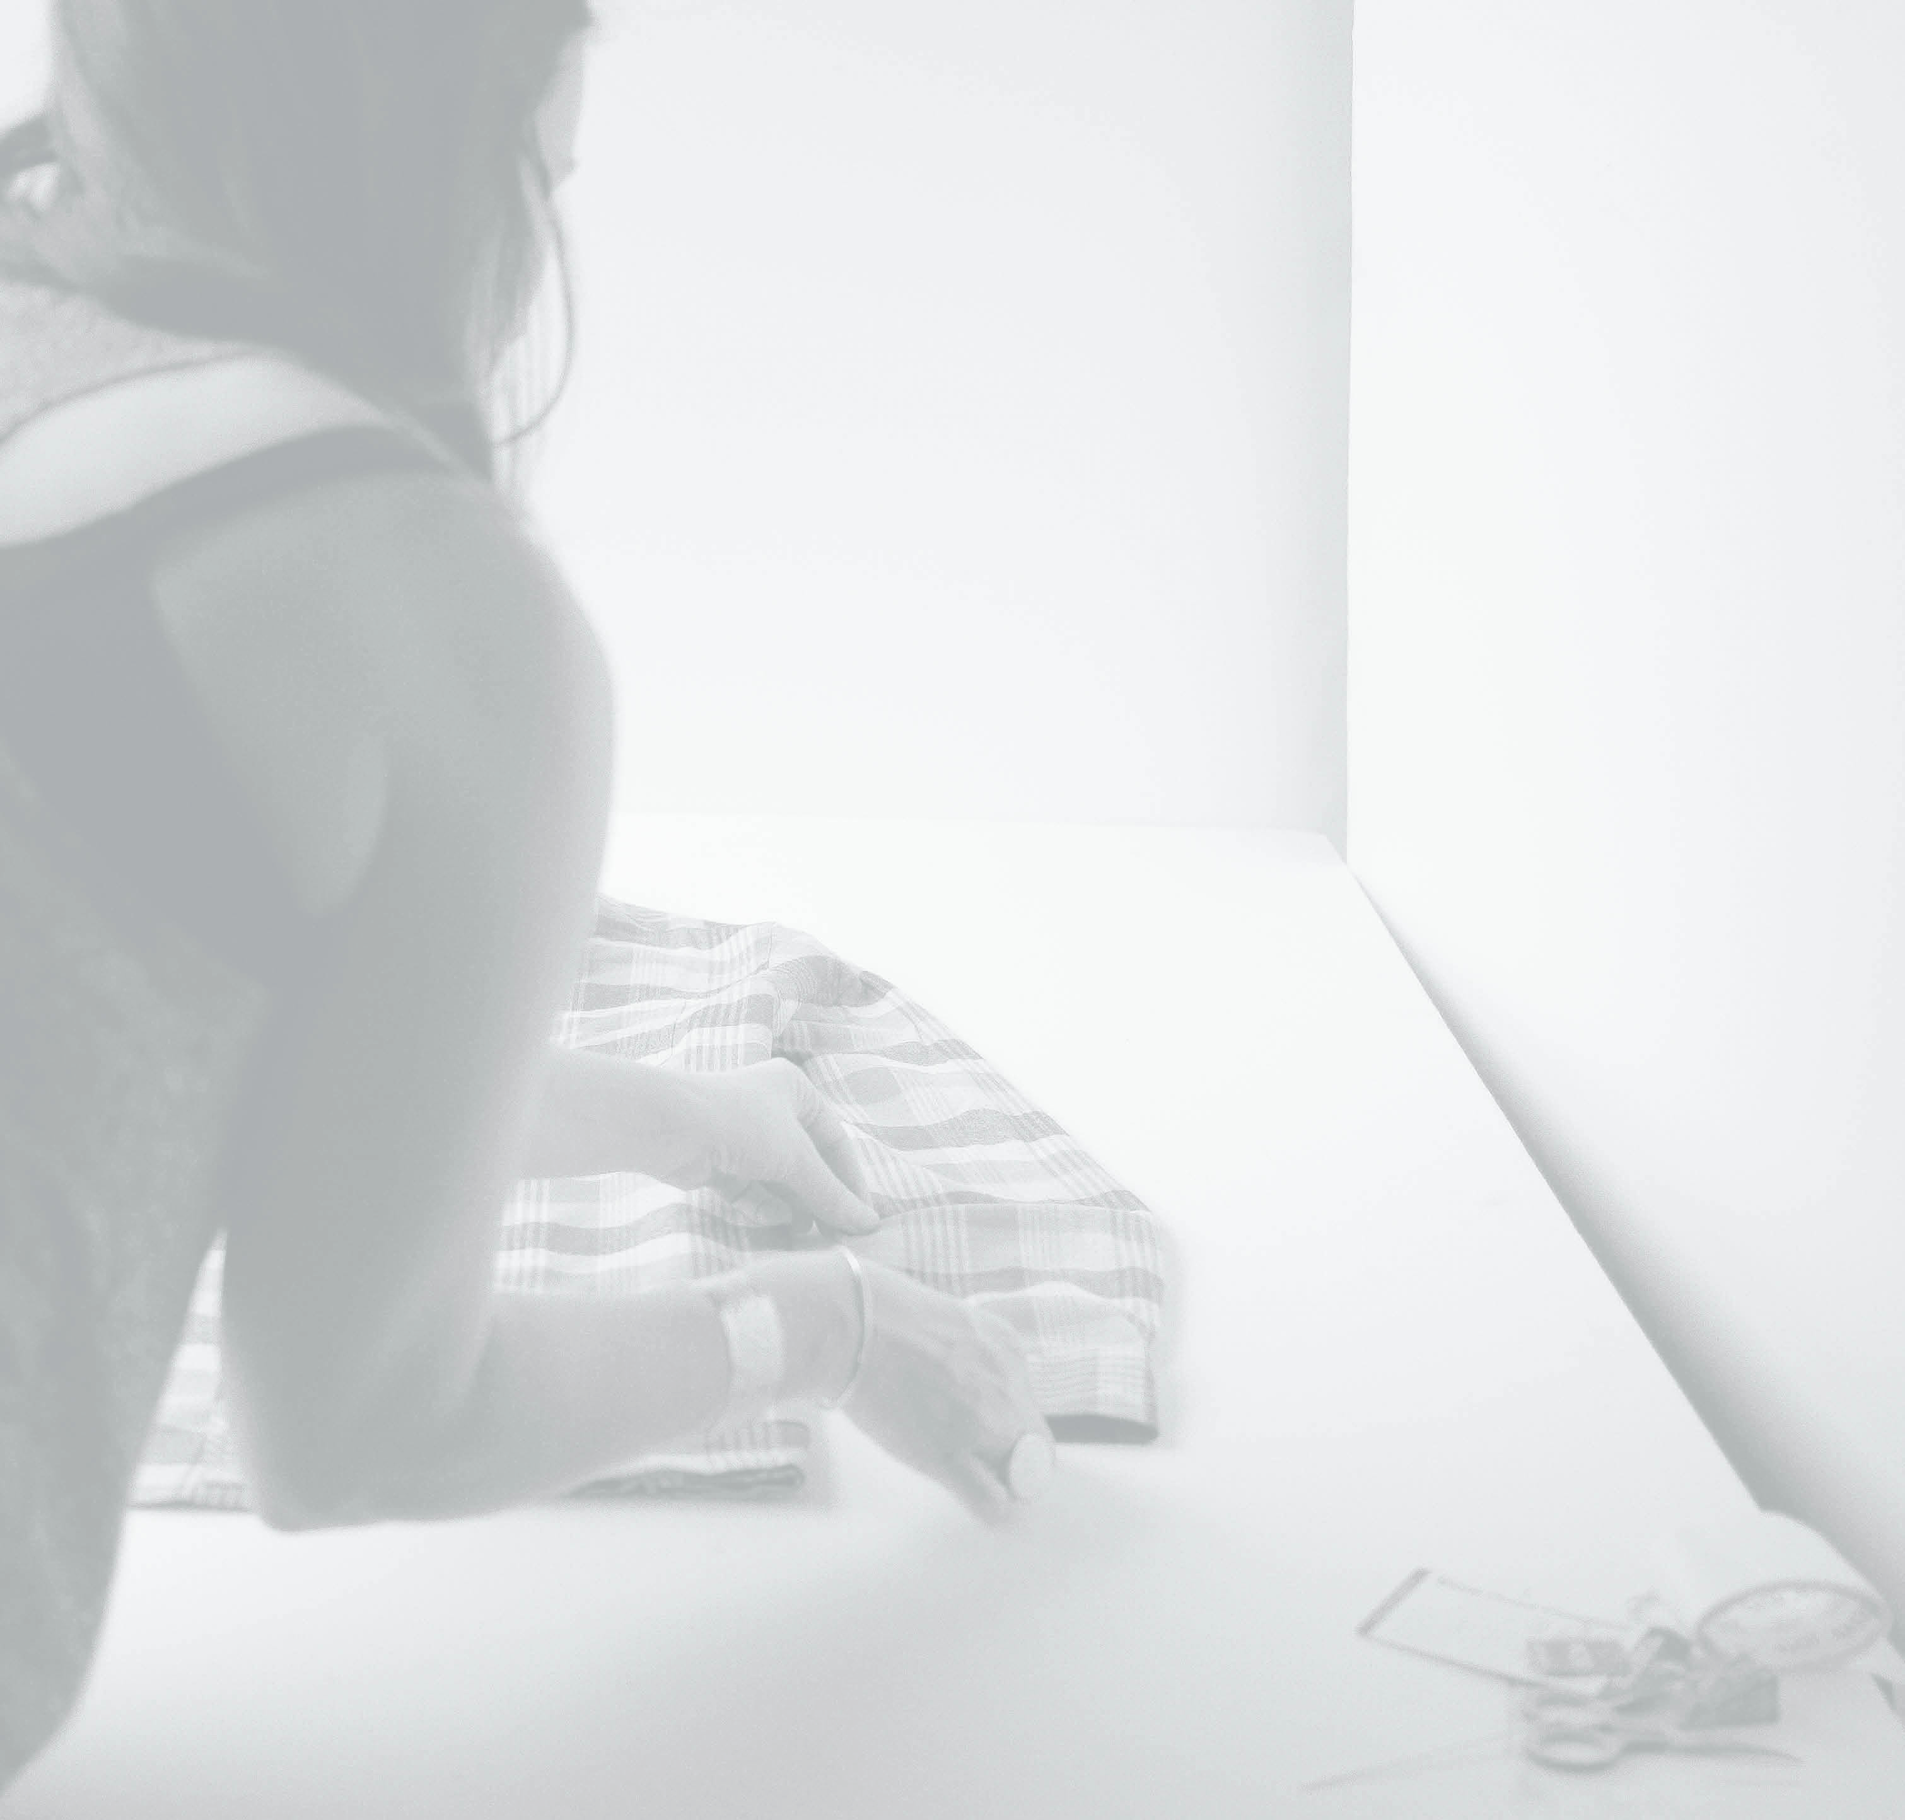
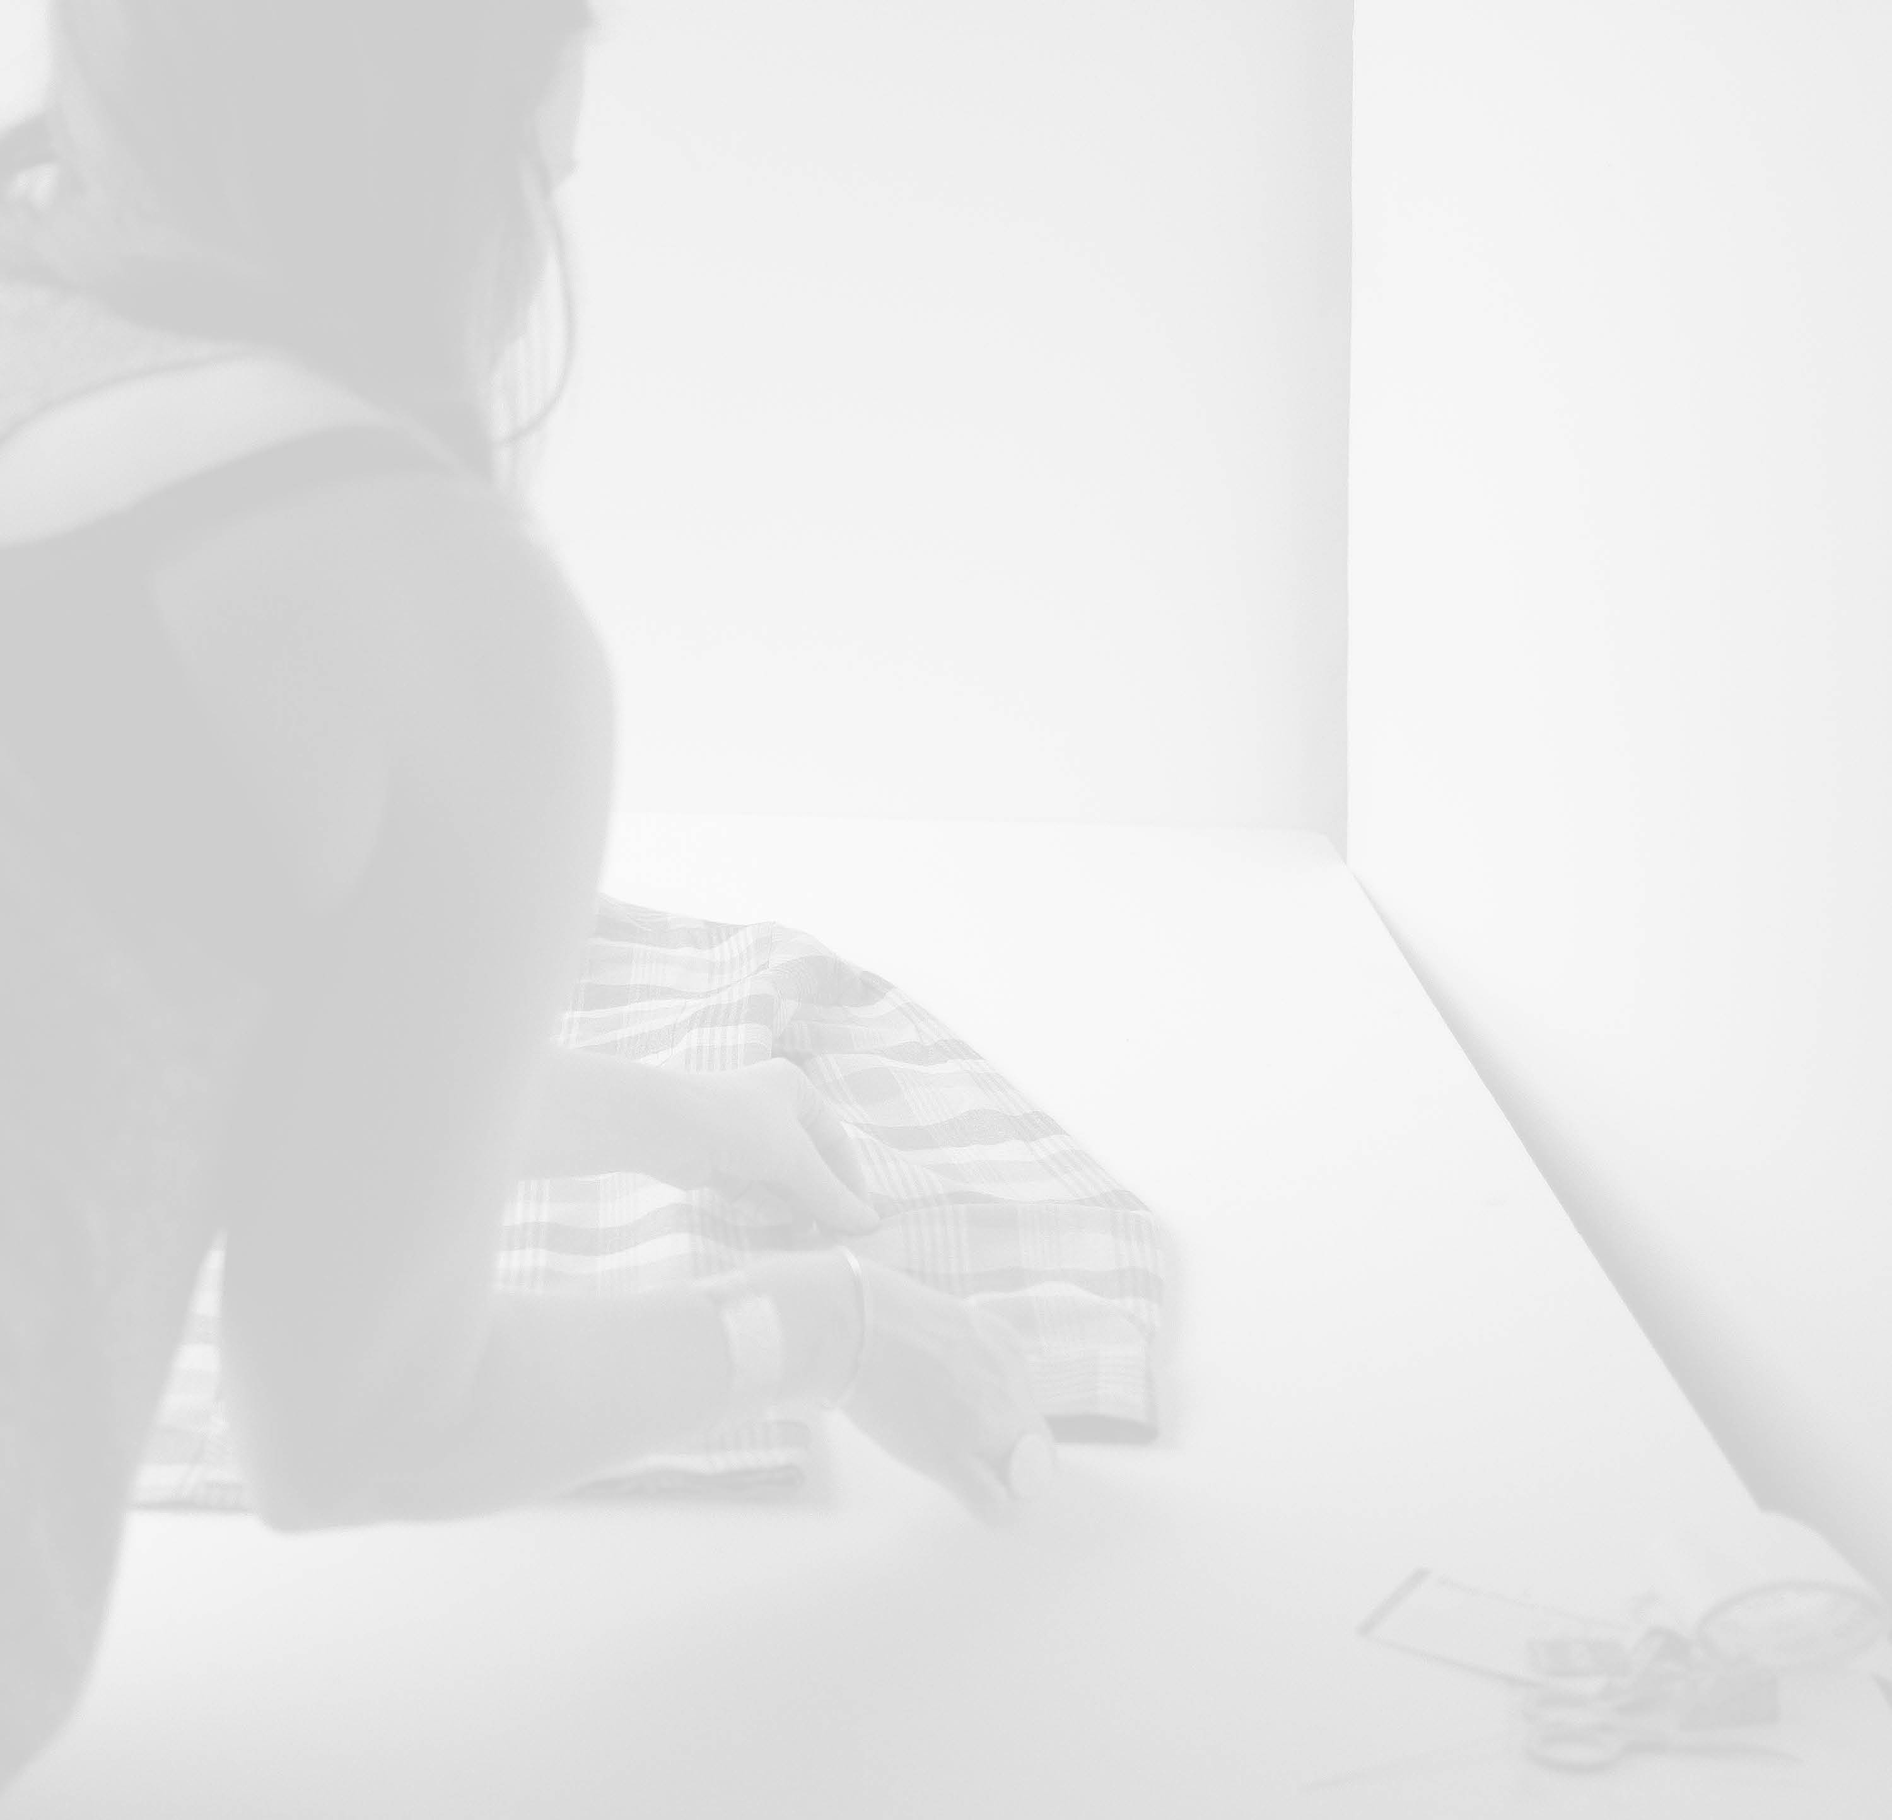
Bug fixed & improvements as per client notes

diff --git a/views/about/about.html b/views/about/about.html
@@ -1,6 +1,6 @@
 <section id="about-landing">
 	<div id="about-landing-text" class="p-box">
-		<p>We’re a small creative agency that works in the outdoor and adjacent markets. We’re all outdoor industry veterans who have come together for the community and collaboration that being part of a team brings.</p>
+		<p>We’re a small creative studio that works in the outdoor and adjacent markets. We’re all outdoor industry veterans who have come together for the community and collaboration that being part of a team brings.</p>
 		<p>Together, we specialize in providing content along with creative strategy and execution. Also, big fans of being outside and coffee. Even drip, when absolutely necessary.</p>
 	</div>
 </section>
@@ -8,7 +8,7 @@
 	<h2 class="orange">Just the right size.</h2>
 	<p>Without all the overhead of a typical agency, no project is too small or too big.</p>
 </section>
-<section class="flip-the-script max-w-container">
+<section class="flip-the-script max-w-container background-parallax">
 	<div class="max-w flex column p-box">
 		<h2 class="mb-1 relative">
 			<div class="growing-slash top-left"></div>
@@ -16,12 +16,11 @@
 		</h2>
 		<h6 class="grey">Top-notch creative should not be astronomically-expensive</h6>
 		<p>We know how much it costs to work with an agency. So we put together a different kind of model for doing the work we love with clients who appreciate another option.</p>
-		<p>We’re not a big agency with a hefty payroll. We’re also not an independent freelancer. Not that there’s anything wrong with either. Honestly, there’s advantages to both. For starters, they’re both well-known. Frankly, we kind of envy them.</p>
-		<p>The issue? We’re stuck in the middle of the two. Like being a middle child, we’re not very well understood.</p>
+		<p>We’re not a big agency with a ton of overhead. We’re also not an independent freelancer. Not that there’s anything wrong with either. Honestly, there’s advantages to both. For starters, they’re both well-known. Frankly, we kind of envy them.</p>
+		<p>We’re stuck in the middle of the two. Like being a middle child, we’re not very well understood.</p>
 		<p>What about us then? We all have decades of experience. We come from working on the brand side of the outdoor industry, from being with creative agencies, and from running our own freelance careers. We’re with Woolley because it’s different.</p>
 		<a href="/work" class="cta light slideout">Check out our work.</a>
 	</div>
-	<img id="about-bw-1" src="/assets/about/about-bw-1.jpg"/>
 </section>
 <section class="trapezoid blue left">
 	<div class="services">
@@ -46,7 +45,7 @@
 		</div>
 	</div>
 </section>
-<section class="thom max-w-container align-end">
+<section class="thom max-w-container align-end background-parallax">
 	<div class="max-w justify-between">
 		<div class="picture">
 			<div class="img-container">

diff --git a/views/contact/contact.html b/views/contact/contact.html
@@ -1,10 +1,10 @@
-<section class="max-w-container">
+<section class="max-w-container background-parallax">
 	<div class="max-w responsive">
 		<div class="half">
-			<h1 class="mb-4 relative">
+			<h2 class="mb-4 relative">
 				<div class="growing-slash top-left"></div>
 				<span class="relative">Let's chat creative.</span>
-			</h1>
+			</h2>
 			<div class="p-box">
 				<p>It’s what we love to do. Also, to jump into very cold alpine lakes.</p>
 				<p>If you need creative content, strategy, or are looking to grow your bench of creative partnerships, we’d love to hear from you.</p>
@@ -13,18 +13,21 @@
 		<div class="half">
 			<form id="contact-form">
 				<label class="required" for="email">Email</label>
-				<input id="email" name="email" type="email" required>
+				<input id="email" name="email" type="email">
 				<label class="required" for="firstname">First Name</label>
-				<input id="firstname" name="firstname" type="text" required>
+				<input id="firstname" name="firstname" type="text">
 				<label class="required" for="lastname">Last Name</label>
-				<input id="lastname" name="lastname" type="text" required>
+				<input id="lastname" name="lastname" type="text">
 				<label for="company">Company</label>
 				<input id="company" name="company" type="text">
 				<label for="phone">Phone</label>
 				<input id="phone" name="phone" type="tel">
 				<label for="message">Message</label>
 				<textarea id="message" name="message" rows="4"></textarea>
-				<button class="cta light" type="submit">Let's go.</button>
+				<div class="relative flex column align-center">
+					<button id="submit-button" class="cta light" type="submit">Let's go.</button>
+					<p id="success-message" class="absolute">Thanks for reaching out to us! We’ll be in touch shortly.</p>
+				</div>
 			</form>
 			<p class="mailto">Don’t like forms? No worries. Send us an email and we’ll get back to you.</p>
 			<a class="mailto" href="mailto:hello@woolleycreative.com" target="_blank">

diff --git a/views/careers/careers.html b/views/careers/careers.html
@@ -7,7 +7,7 @@
 </section>
 <section class="trapezoid right blue">
 	<h2 class="orange">We're a team.</h2>
-	<p>Working as a team brings us opportunity in both scale and scope of projects.</p>
+	<p>Working together brings us opportunity in both scale and scope of projects.</p>
 </section>
 <section class="magazine max-w-container">
 	<div class="max-w column align-center">
@@ -42,15 +42,15 @@
 <section class="cool max-w-container">
 	<div class="max-w column justify-center">
 		<div class="relative">
-			<div class="slash slideout"></div>
-			<p class="relative">Speaking of collaboration, everyone is involved in decisions that affect Woolley including the ways we operate, the work we take on, and how we show up as a team.</p>
+			<div class="growing-slash top-left slideout"></div>
+			<p class="relative">Everyone is involved in decisions that affect Woolley including the ways we operate, the work we take on, and how we show up as a team.</p>
 		</div>
 		<div class="relative">
-			<div class="slash slideout"></div>
+			<div class="growing-slash top-left slideout"></div>
 			<p class="relative">We’re each responsible for bringing work to Woolley. This gives all of us opportunities to meet with our clients and to carry projects through the full lifecycle, from concept to execution to delivery.</p>
 		</div>
 		<div class="relative">
-			<div class="slash slideout"></div>
+			<div class="growing-slash top-left slideout"></div>
 			<p class="relative">We only work when there’s work. Like being freelance, there’s no guaranteed salary. That also means you get to set your own schedule.</p>
 		</div>
 	</div>

diff --git a/views/about/about.js b/views/about/about.js
@@ -10,7 +10,6 @@ export default function About() {
 	// Get DOM elements
 	const landingContainer = document.getElementById('about-landing');
 	const landingText = document.getElementById('about-landing-text');
-	const aboutBg = document.getElementById('about-bw-1');
 	const slideListContainer = document.getElementById('slide-list');
 
 	const landingImage = new LandingImage({
@@ -19,8 +18,8 @@ export default function About() {
 		bgFilepath: '/assets/about/landing_image_background.jpg',
 		heroText: ['Hey,', 'We\'re', 'Woolley.'],
 		// height: 'min(100vh, 960px)',
-		initFgDisp: 0,
 		heroTextY: 0.25,
+		initFgDisp: 0,
 		opacitySpeed: 16
 	});
 
@@ -47,16 +46,6 @@ export default function About() {
 		landingBgLoaded = true;
 		assessImageLoad();
 	}
-
-	let aboutFadeIn;
-	aboutBg.onload = () => {
-		aboutFadeIn = new ScrollFadeInElement(aboutBg, {
-			inPadding: 300,
-			threshold: 0.4,
-			maxOpacity: 0.5
-		});
-		aboutFadeIn.onScroll(window.scrollY);
-	};
 
 	const slideListItems = [
 		'is committed to doing good.',
@@ -90,7 +79,6 @@ export default function About() {
 		});
 
 		setLandingTextY();
-		if(aboutFadeIn) aboutFadeIn.onScroll(scrollY);
 	}
 
 	function onResize() {

diff --git a/utils/animations/growingSlash.js b/utils/animations/growingSlash.js
@@ -13,13 +13,18 @@ export class GrowingSlash {
 		this.tracker.onScroll(window.scrollY);
 
 		let t = this.tracker.scrollT;
-		t = t * 20 + 80; // min slash length 80%
-		const u = 100 - t;
+		const minSize = 0.6; // 60% minimum size
+		t = (1 - minSize) / 2 * t + (1 - (1 - minSize) / 2);
 
-		const bl = `calc(${u}% + ${this.thickness} * ${u / 100}) ${100 - u}%`;
-		const tl = `calc(${t}% - ${this.thickness}) ${(u)}%`;
-		const tr = `${t}% ${u}%`;
-		const br = `calc(${u}% + ${this.thickness} * ${1 + u / 100}) ${(100 - u)}%`;
+		const u = 1 - t;
+		const T = t * 100;
+		const U = u * 100;
+		const k = this.thickness;
+
+		const bl = `calc(${U}% - ${k} * ${u}) ${T}%`;
+		const tl = `calc(${T}% - ${k} * ${t}) ${U}%`;
+		const tr = `calc(${T}% + ${k} * ${u}) ${U}%`;
+		const br = `calc(${U}% + ${k} * ${t}) ${T}%`;
 
 		this.element.style.clipPath = `polygon(${bl}, ${tl}, ${tr}, ${br})`;
 	}

diff --git a/utils/animations.js b/utils/animations.js
@@ -47,6 +47,7 @@ export { ScrollTracker } from './animations/scrollTracker.js';
 //     which means behavior is not configurable element to element
 //     you can still add configuarablity through element class names
 
+import { BackgroundParallax } from './animations/backgroundParallax.js'; // class="background-parallax"
 import { GrowingSlash } from './animations/growingSlash.js'; // class="growing-slash"
 import { Trapezoid } from './animations/trapezoid.js'; // class="trapezoid {left/right}"
 
@@ -90,6 +91,7 @@ const intersectionClassMap = new Map()
 const scrollClassMap = new Map()
 	.set('growing-slash', GrowingSlash)
 	.set('trapezoid', Trapezoid)
+	.set('background-parallax', BackgroundParallax);
 
 export function searchForAnimations(container) {
 	clearAnimationsFromListeners();

diff --git a/views/contact/contact.js b/views/contact/contact.js
@@ -1,10 +1,24 @@
 export default function Contact() {
 	// Get DOM elements
 	const form = document.getElementById('contact-form');
+	const submitButton = document.getElementById('submit-button');
+	const successMessage = document.getElementById('success-message');
+
+	function clearForm() {
+		for (const element of form.elements) element.value = '';
+	}
+
+	function showSuccessMessage() {
+		submitButton.style.display = 'none';
+		successMessage.style.display = 'block';
+		setTimeout(() => successMessage.style.opacity = '1', 10);
+	}
 
 	form.onsubmit = event => {
 		event.preventDefault();
 		const data = new FormData(form);
 		console.log('FormData:', data);
+		clearForm();
+		showSuccessMessage();
 	}
 }

diff --git a/views/careers/careers.css b/views/careers/careers.css
@@ -84,7 +84,7 @@ section.magazine .text-2 {
 
 
 section.what-else {
-	height: 250px;
+	height: 350px;
 	background-color: var(--woolley-blue);
 }
 
@@ -103,11 +103,9 @@ section.cool > div > div {
 	margin: 30px 0;
 }
 
-section.cool div.slash {
+section.cool div.growing-slash {
 	--thickness: 0.6rem;
-	--height: 80px;
-	top: calc(var(--height) / -2 + 1rem - 4px);
-	left: -25px;
+	--height: 90px;
 }
 
 
@@ -118,7 +116,6 @@ section#careers-banner {
 	justify-content: center;
 	background-image: url("/assets/careers/mountains.jpg");
 	background-size: cover;
-	/* background-position-y: 100px; */
 	background-position-y: 0;
 }
 

diff --git a/views/about/about.css b/views/about/about.css
@@ -4,7 +4,7 @@ section#about-landing {
 }
 
 section#about-landing .hero-text {
-	color: inherit;
+	color: var(--woolley-blue);
 	left: max(var(--side-padding), calc((100vw - var(--max-width)) / 2));
 	right: initial;
 }
@@ -28,11 +28,14 @@ div#about-landing-text p {
 	transition: opacity 0.5s ease-out, right 0.2s ease-out;
 }
 
-
 section.flip-the-script {
 	height: 960px;
 	margin-top: 300px;
 	position: relative;
+	background-image:
+		linear-gradient(to right, rgba(255, 255, 255, 0.5) 0 100%),
+		url("/assets/about/about-bw-1.jpg");
+	background-size: cover;
 }
 
 section.flip-the-script > div {

diff --git a/utils/animations/backgroundParallax.js b/utils/animations/backgroundParallax.js
@@ -1,0 +1,22 @@
+import { getBoundedTValue, ScrollTracker } from '../animations.js';
+
+export class BackgroundParallax {
+	constructor(element) {
+		this.element = element;
+		this.tracker = new ScrollTracker(element);
+		this.displacement = 200;
+		element.style.backgroundRepeat = 'no-repeat';
+		this.onResize();
+	}
+
+	onScroll() {
+		this.tracker.onScroll(window.scrollY);
+		this.element.style.backgroundPositionY =
+			(this.displacement * this.tracker.scrollT).toString() + 'px';
+	}
+
+	onResize() {
+		this.tracker.onResize();
+		this.onScroll();
+	}
+}

diff --git a/views/work/work.css b/views/work/work.css
@@ -27,7 +27,7 @@ div.project p {
 
 /* div.project img { */
 div.project div.image {
-	width: 57%;
+	width: min(56%, calc(50% + var(--column-width) * 2 + var(--column-gap) * 3));
 	height: 100%;
 	position: absolute;
 	right: 0;
@@ -52,10 +52,16 @@ div.project div.image.sendline img {
 }
 
 div.project div.image img {
-	width: 100%;
+	width: 101%;
 	height: 100%;
 	object-fit: cover;
 	transition: transform 0.4s;
+}
+
+div.project.left div.image img {
+	position: relative;
+	left: -1px;
+	width: calc(101% + 1px);
 }
 
 

diff --git a/views/contact/contact.css b/views/contact/contact.css
@@ -24,7 +24,7 @@ div.growing-slash {
 form {
 	display: flex;
 	flex-direction: column;
-	margin-bottom: 100px;
+	margin-bottom: 90px;
 }
 
 label {
@@ -55,10 +55,17 @@ input:focus, textarea:focus {
 	outline: none;
 }
 
-button {
-	align-self: center;
+form div {
 	margin-top: 1rem;
+	height: 3rem;
 }
+
+p#success-message {
+	display: none;
+	opacity: 0;
+	transition: opacity 0.75s ease-out;
+}
+
 
 p.mailto {
 	max-width: 350px;
